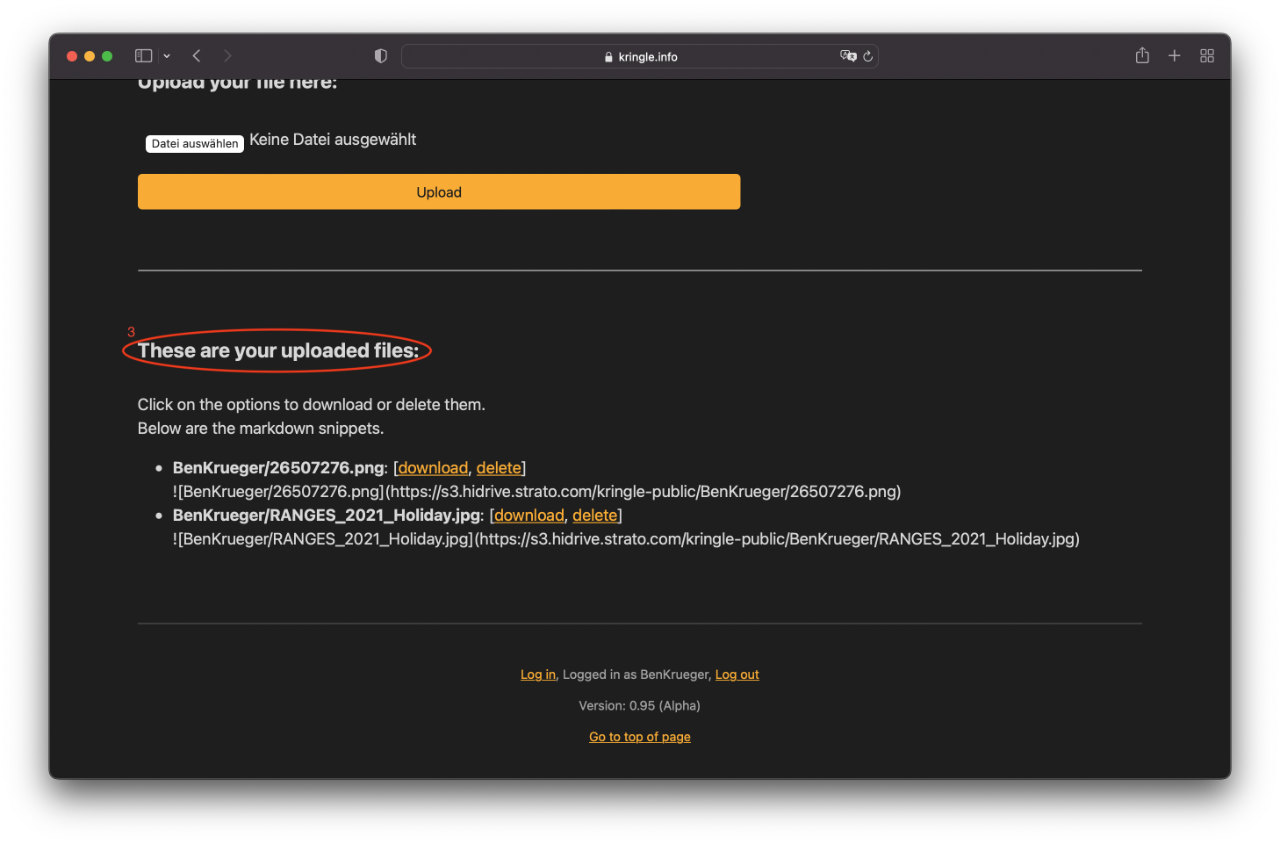
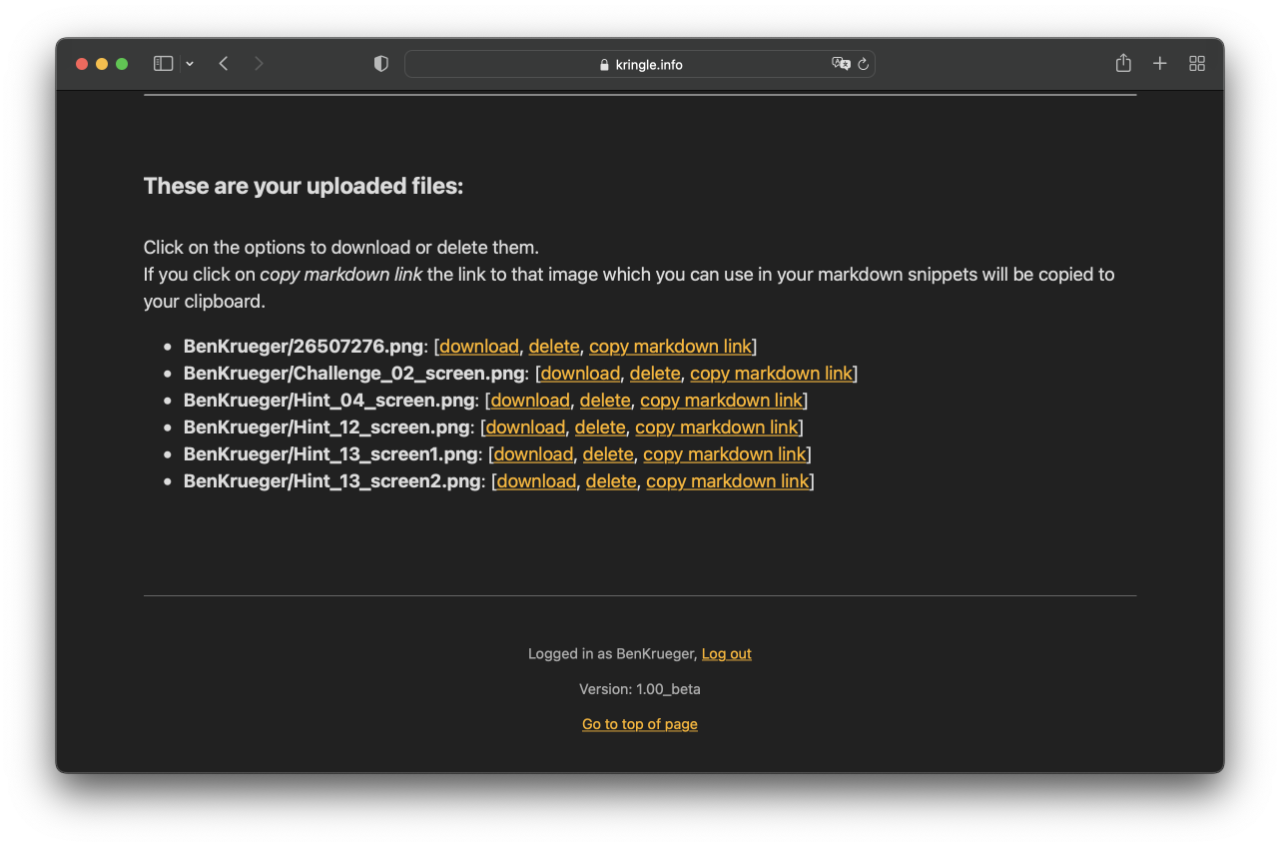
Update storage help

Changed region(s): [[0.0312, 0.0308, 0.9688, 0.955], [0.0938, 0.2773, 0.875, 0.6469], [0.0938, 0.154, 0.5938, 0.2464]]

diff --git a/docs/storage.md b/docs/storage.md
@@ -2,14 +2,14 @@
 
 ## S3 Storage
 
-If you are already logged in, you can use the included S3 Storage to store image files there. To do this, click on (1) *Storage*.  
+If you are already logged in, you can use the included S3 Storage to store image files. To do this, click on (1) *Storage*.  
 
-In the (2) first section, you can upload image files. First select the respective file and then click *Upload*.  
+In the first section, you can upload image files. First select the respective file and then click *Upload*.  
 
 ![Storage upload](./img/storage_upload.png)
 
-In the (3) second section, you can manage files that have already been uploaded.  
+In the second section, you can manage files that have already been uploaded.  
 You can download or delete them again by clicking the appropriate link.  
-For each file, you will also see the appropriate Markdown link that you can copy into your solutions.  
+For each file, you can also generate an appropriate Markdown link that you can paste into your solutions.  
 
 ![Storage edit](./img/storage_edit.png)
